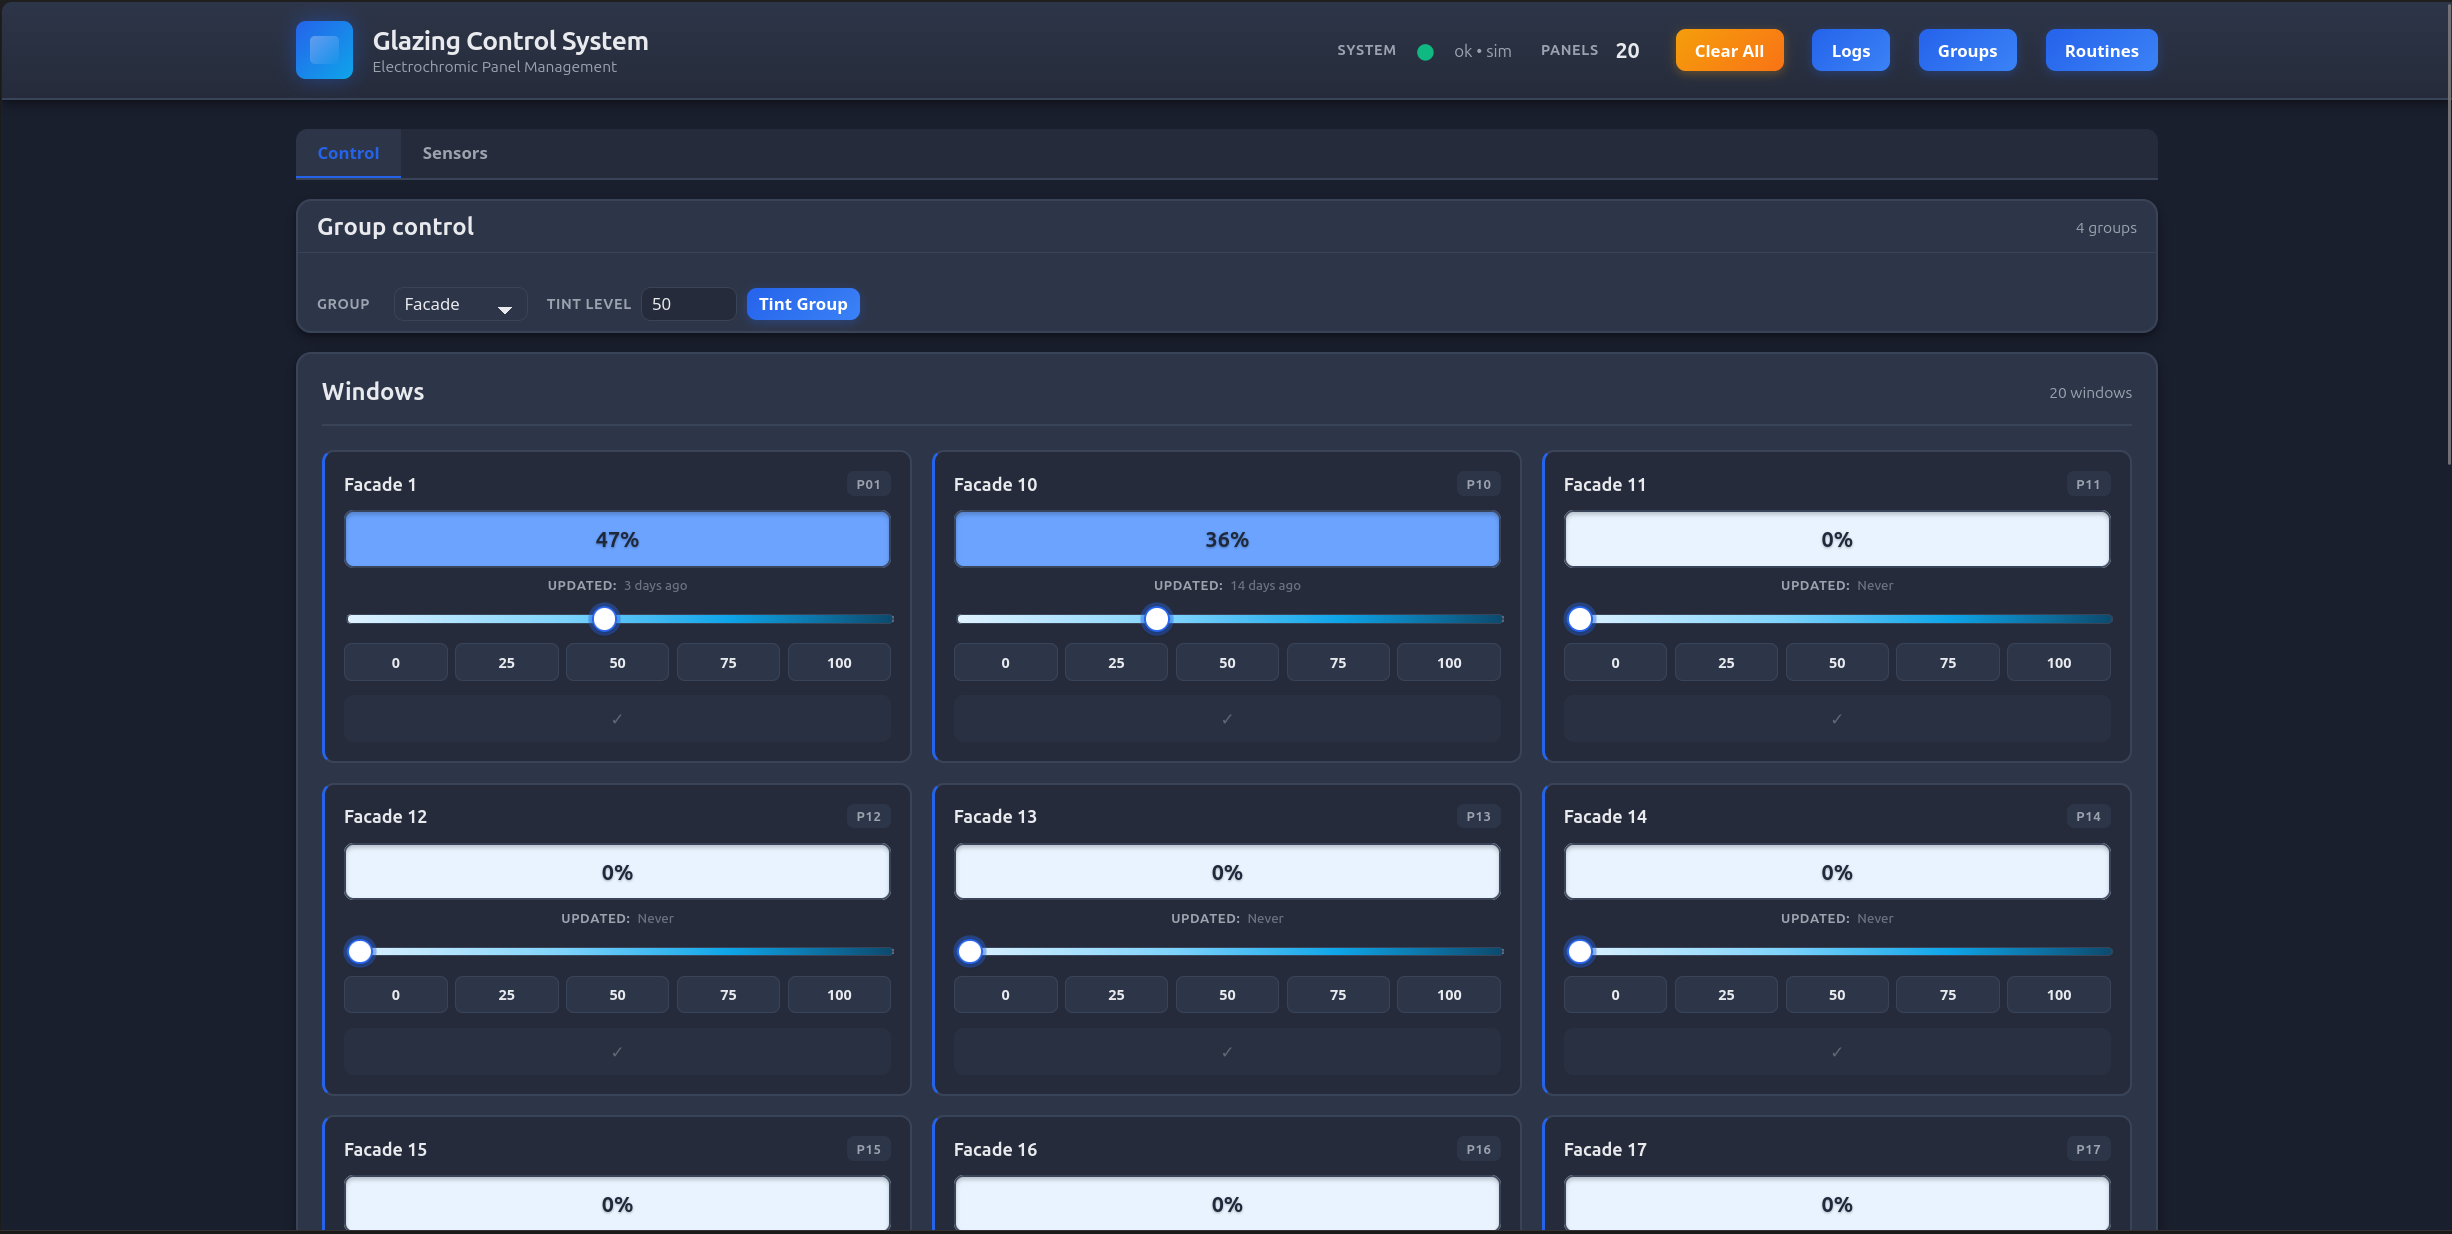
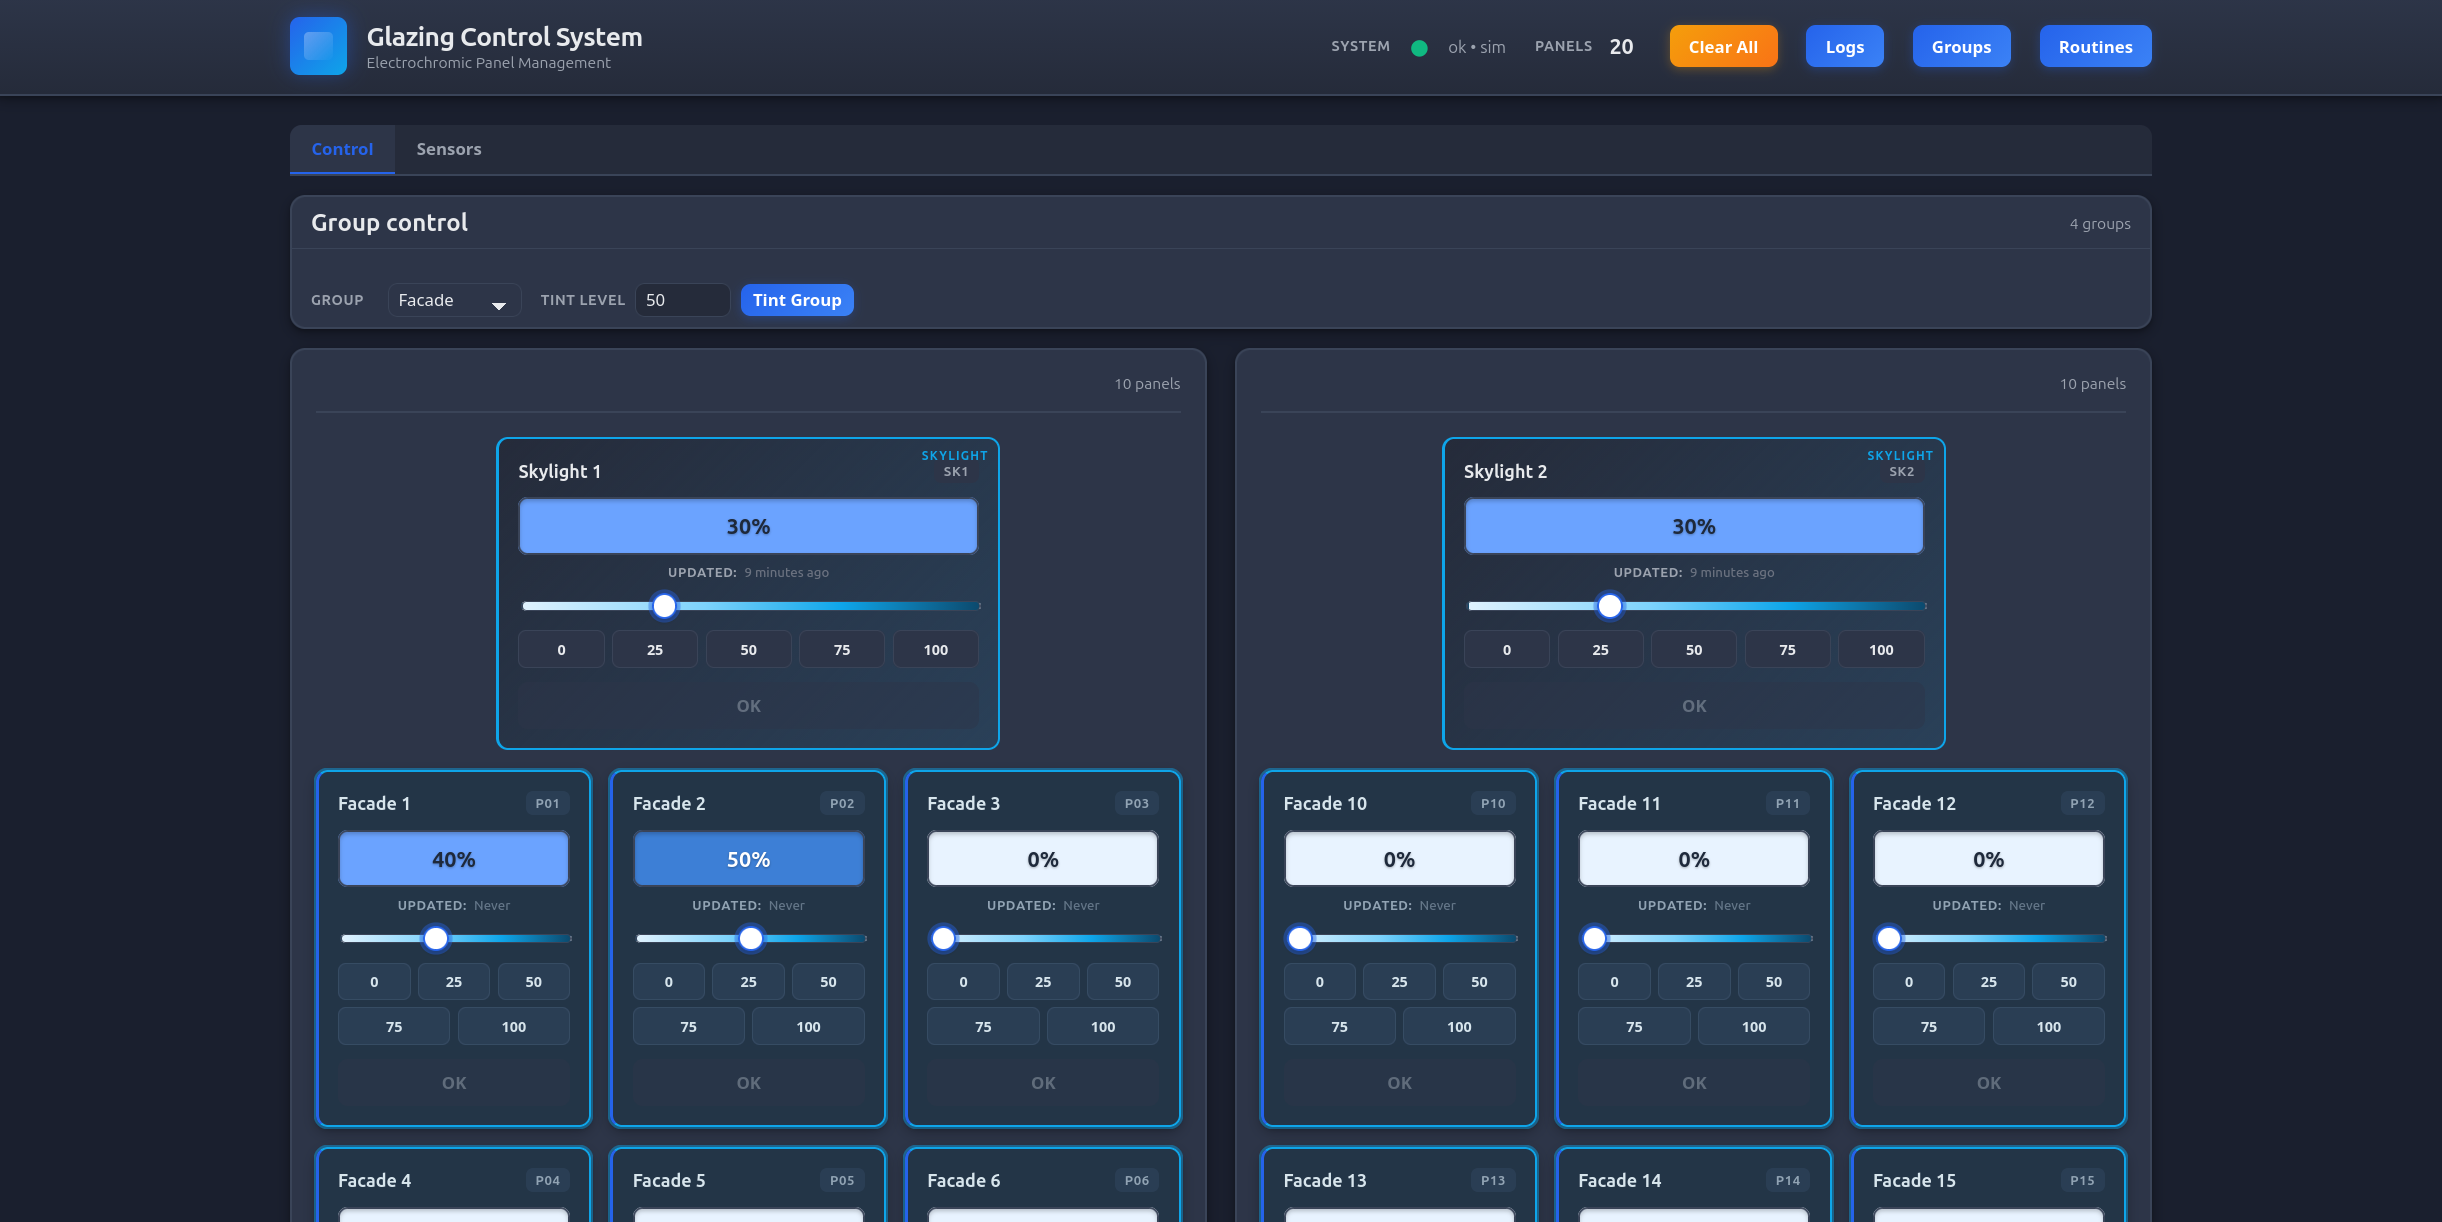
Updated images in readme, no code changes

diff --git a/README.md b/README.md
@@ -21,8 +21,15 @@ This app provides researchers and facility managers with a local-first system to
 - **Local-First Reliability:** Operates entirely on the local trailer network, provides responsiveness without depending on external internet access.
 - **Smart Scheduling Engine:** Create study-friendly, automated routines that adjust pane tinting based on time of day, minimizing manual intervention during research experiments.
 - **Live System Status:** Get real-time monitoring and visualization of all 18 Halio facade panels and 2 skylights from a single, unified dashboard.
+- **Sensor Visualization:** Track live and historical sensor metrics, toggle sensor visibility, select specific metrics to graph, and view real-time spectral irradiance graphs.
 - **Sensor Integration Ready:** Built to analyze and manage DIAL's advanced setup of indoor and rooftop environmental sensors (including JETI spectroradiometers and EKO pyranometers).
 - **Safe Manual Override:** The safety-first manual override protocols allow the researchers to take direct control of individual panels.
+
+<div align="center">
+  <img src="docs/images/sensors.png" alt="Sensor Visualization Mockup" width="800" />
+  <br>
+  <em>Real-time sensor monitoring, visibility toggles, and live/historical spectral irradiance graphs.</em>
+</div>
 
 For a clean machine setup, use [`DEV-SETUP.md`](./DEV-SETUP.md). The backend expects Python `>=3.11,<3.14`; the frontend uses Node.js/NPM. EKO site deployments now use the C-BOX Ethernet Modbus TCP interface (`host` plus TCP `port` 502) and no longer use USB-to-RS485 or a COM port for EKO.
 